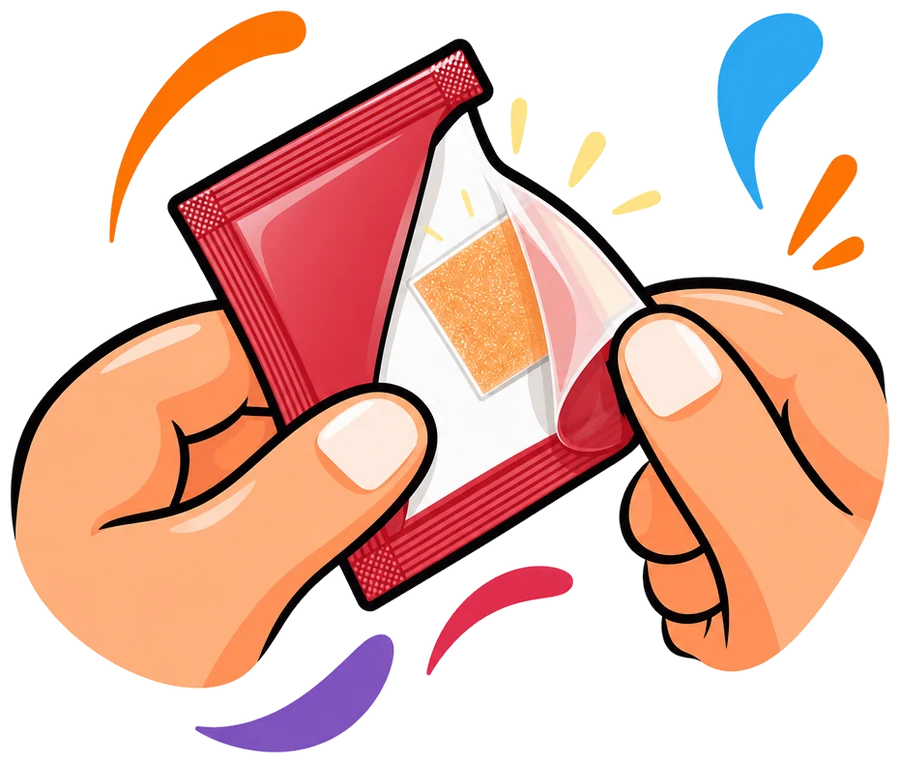
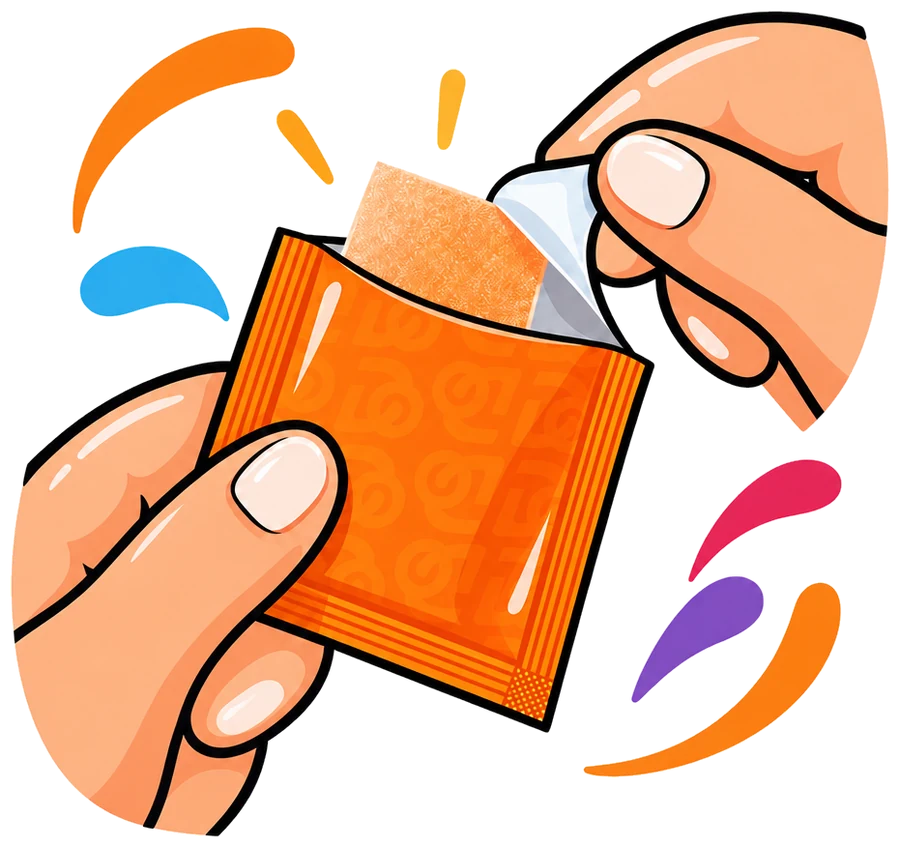
Swap in the orange-pouch peel graphic
Cut out the new peel illustration (orange DOCO pouch) and replace
assets/step-peel.webp; Peel card glow is now orange and Place red to
match the art. Cache v=28.

diff --git a/index.html b/index.html
@@ -9,7 +9,7 @@
 <link rel="preconnect" href="https://fonts.gstatic.com" crossorigin>
 <link href="https://fonts.googleapis.com/css2?family=Bricolage+Grotesque:opsz,wght@12..96,500;12..96,700;12..96,800&family=Inter:wght@400;500;600;700;800;900&family=Instrument+Serif:ital@0;1&display=swap" rel="stylesheet">
 <link rel="icon" type="image/png" href="assets/favicon.png">
-<link rel="stylesheet" href="css/style.css?v=27">
+<link rel="stylesheet" href="css/style.css?v=28">
 </head>
 <body>
 
@@ -281,8 +281,8 @@
       <p class="ritual__sub">Three seconds. No water, no pills, nothing to swallow &mdash; the whole routine fits in a pocket.</p>
     </div>
     <ol class="rsteps">
-      <li class="rstep reveal" style="--c:#d63a30"><div class="rstep__art"><img src="assets/step-peel.webp" alt="Hands opening a DOCO pouch" width="900" height="763" loading="lazy"></div><span class="rstep__n">Step 01</span><h3>Peel</h3><p>Tear open a single pocket-sized strip. Travel-ready, mess-free.</p><span class="rstep__t">1 second</span></li>
-      <li class="rstep reveal" data-delay="1" style="--c:#ef8120"><div class="rstep__art"><img src="assets/step-place.webp" alt="Placing a strip on the tongue" width="900" height="774" loading="lazy"></div><span class="rstep__n">Step 02</span><h3>Place</h3><p>Rest it on your tongue. Nothing to swallow, nothing to carry.</p><span class="rstep__t">2 seconds</span></li>
+      <li class="rstep reveal" style="--c:#ef8120"><div class="rstep__art"><img src="assets/step-peel.webp" alt="Hands opening a DOCO pouch" width="900" height="847" loading="lazy"></div><span class="rstep__n">Step 01</span><h3>Peel</h3><p>Tear open a single pocket-sized strip. Travel-ready, mess-free.</p><span class="rstep__t">1 second</span></li>
+      <li class="rstep reveal" data-delay="1" style="--c:#d63a30"><div class="rstep__art"><img src="assets/step-place.webp" alt="Placing a strip on the tongue" width="900" height="774" loading="lazy"></div><span class="rstep__n">Step 02</span><h3>Place</h3><p>Rest it on your tongue. Nothing to swallow, nothing to carry.</p><span class="rstep__t">2 seconds</span></li>
       <li class="rstep rstep--go reveal" data-delay="2" style="--c:#ffd23e"><div class="rstep__art"><img src="assets/step-go.webp" alt="A lightning bolt" width="885" height="900" loading="lazy"></div><span class="rstep__n">Step 03</span><h3>Go</h3><p>It dissolves in seconds and gets to work. Now go do more.</p><span class="rstep__t">~15 seconds</span></li>
     </ol>
     <ul class="ritual__facts reveal" data-delay="2"><li><b>0</b>water</li><li><b>0</b>pills</li><li><b>~15s</b>to dissolve</li><li><b>1</b>better choice a day</li></ul>
@@ -456,6 +456,6 @@
 </footer>
 
 
-<script src="js/main.js?v=27"></script>
+<script src="js/main.js?v=28"></script>
 </body>
 </html>

diff --git a/shop.html b/shop.html
@@ -9,7 +9,7 @@
 <link rel="preconnect" href="https://fonts.gstatic.com" crossorigin>
 <link href="https://fonts.googleapis.com/css2?family=Bricolage+Grotesque:opsz,wght@12..96,500;12..96,700;12..96,800&family=Inter:wght@400;500;600;700;800;900&family=Instrument+Serif:ital@0;1&display=swap" rel="stylesheet">
 <link rel="icon" type="image/png" href="assets/favicon.png">
-<link rel="stylesheet" href="css/style.css?v=27">
+<link rel="stylesheet" href="css/style.css?v=28">
 </head>
 <body>
 
@@ -103,6 +103,6 @@
 </footer>
 
 
-<script src="js/main.js?v=27"></script>
+<script src="js/main.js?v=28"></script>
 </body>
 </html>

diff --git a/product.html b/product.html
@@ -9,7 +9,7 @@
 <link rel="preconnect" href="https://fonts.gstatic.com" crossorigin>
 <link href="https://fonts.googleapis.com/css2?family=Bricolage+Grotesque:opsz,wght@12..96,500;12..96,700;12..96,800&family=Inter:wght@400;500;600;700;800;900&family=Instrument+Serif:ital@0;1&display=swap" rel="stylesheet">
 <link rel="icon" type="image/png" href="assets/favicon.png">
-<link rel="stylesheet" href="css/style.css?v=27">
+<link rel="stylesheet" href="css/style.css?v=28">
 </head>
 <body>
 
@@ -95,6 +95,6 @@
 </footer>
 
 
-<script src="js/main.js?v=27"></script>
+<script src="js/main.js?v=28"></script>
 </body>
 </html>
